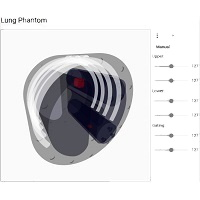
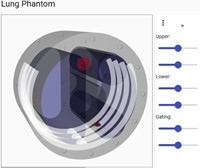
Some changes.

diff --git a/Virms/Src/Web/ClientApp/src/app/lnr/lnrengine3d.service.ts b/Virms/Src/Web/ClientApp/src/app/lnr/lnrengine3d.service.ts
@@ -8,7 +8,6 @@ import { OrbitControls } from 'three/examples/jsm/controls/OrbitControls.js'
 import { LoadableObject, LoadedObject, NotLoadedObject } from '../shared/ui/loadedobject.model'
 
 @Injectable({providedIn: 'root'})
-
 export class LnrEngine3dService implements OnDestroy {
 
   private canvas: HTMLCanvasElement
@@ -120,11 +119,15 @@ export class LnrEngine3dService implements OnDestroy {
     controls.maxDistance = 500
 
     const light = new THREE.PointLight(0xffffff, 2)
-    light.position.set(300, 700, 0)
+    light.position.set(300, -700, 0)
     this.scene.add(light)
     const light2 = new THREE.PointLight(0xffffff, 2)
-    light2.position.set(0, -500, 300)
+    light2.position.set(0, 500, 300)
     this.scene.add(light2)
+
+    // var light3 = new THREE.AmbientLight(0xffffff);
+    // this.scene.add(light3);
+
 
     this.backGround = null
     this.backGroundXray = null

diff --git a/Virms/Src/Web/ClientApp/src/app/app.module.ts b/Virms/Src/Web/ClientApp/src/app/app.module.ts
@@ -42,7 +42,7 @@ import { HomeComponent } from './home/home.component'
     RouterModule.forRoot([
       { path: '', component: HomeComponent, pathMatch: 'full' },
       // Paths do not work on github.io
-      //{ path: 'a', component: HomeComponent, pathMatch: 'full' },
+      { path: 'lnr', component: LnrComponent, pathMatch: 'full' },
       //{ path: 'b', component: HomeComponent, pathMatch: 'full' },
       //{ path: 'c', component: HomeComponent, pathMatch: 'full' },
       //{ path: 'd', component: HomeComponent, pathMatch: 'full' },
